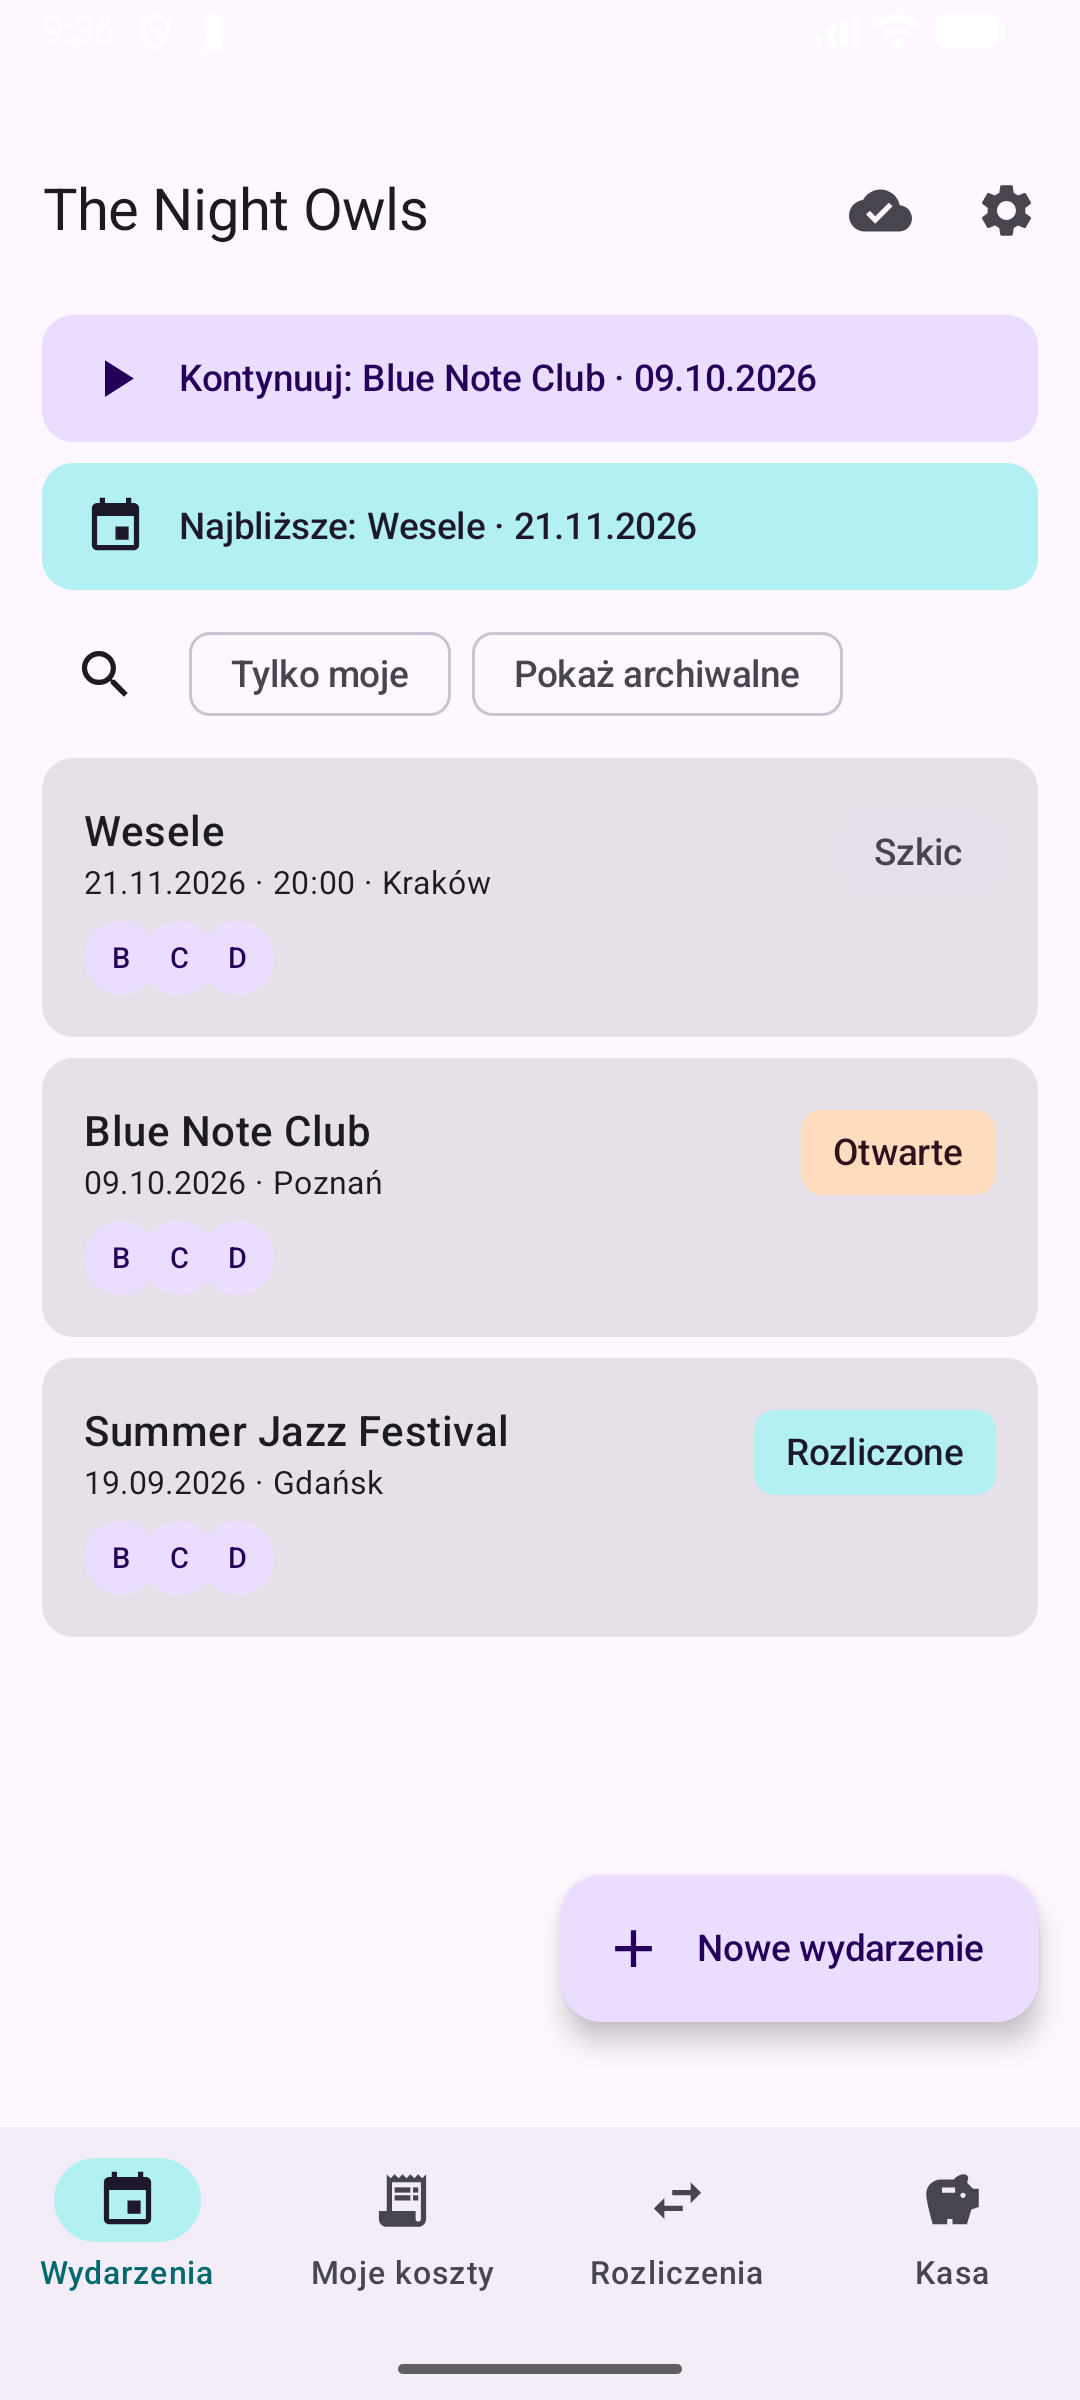
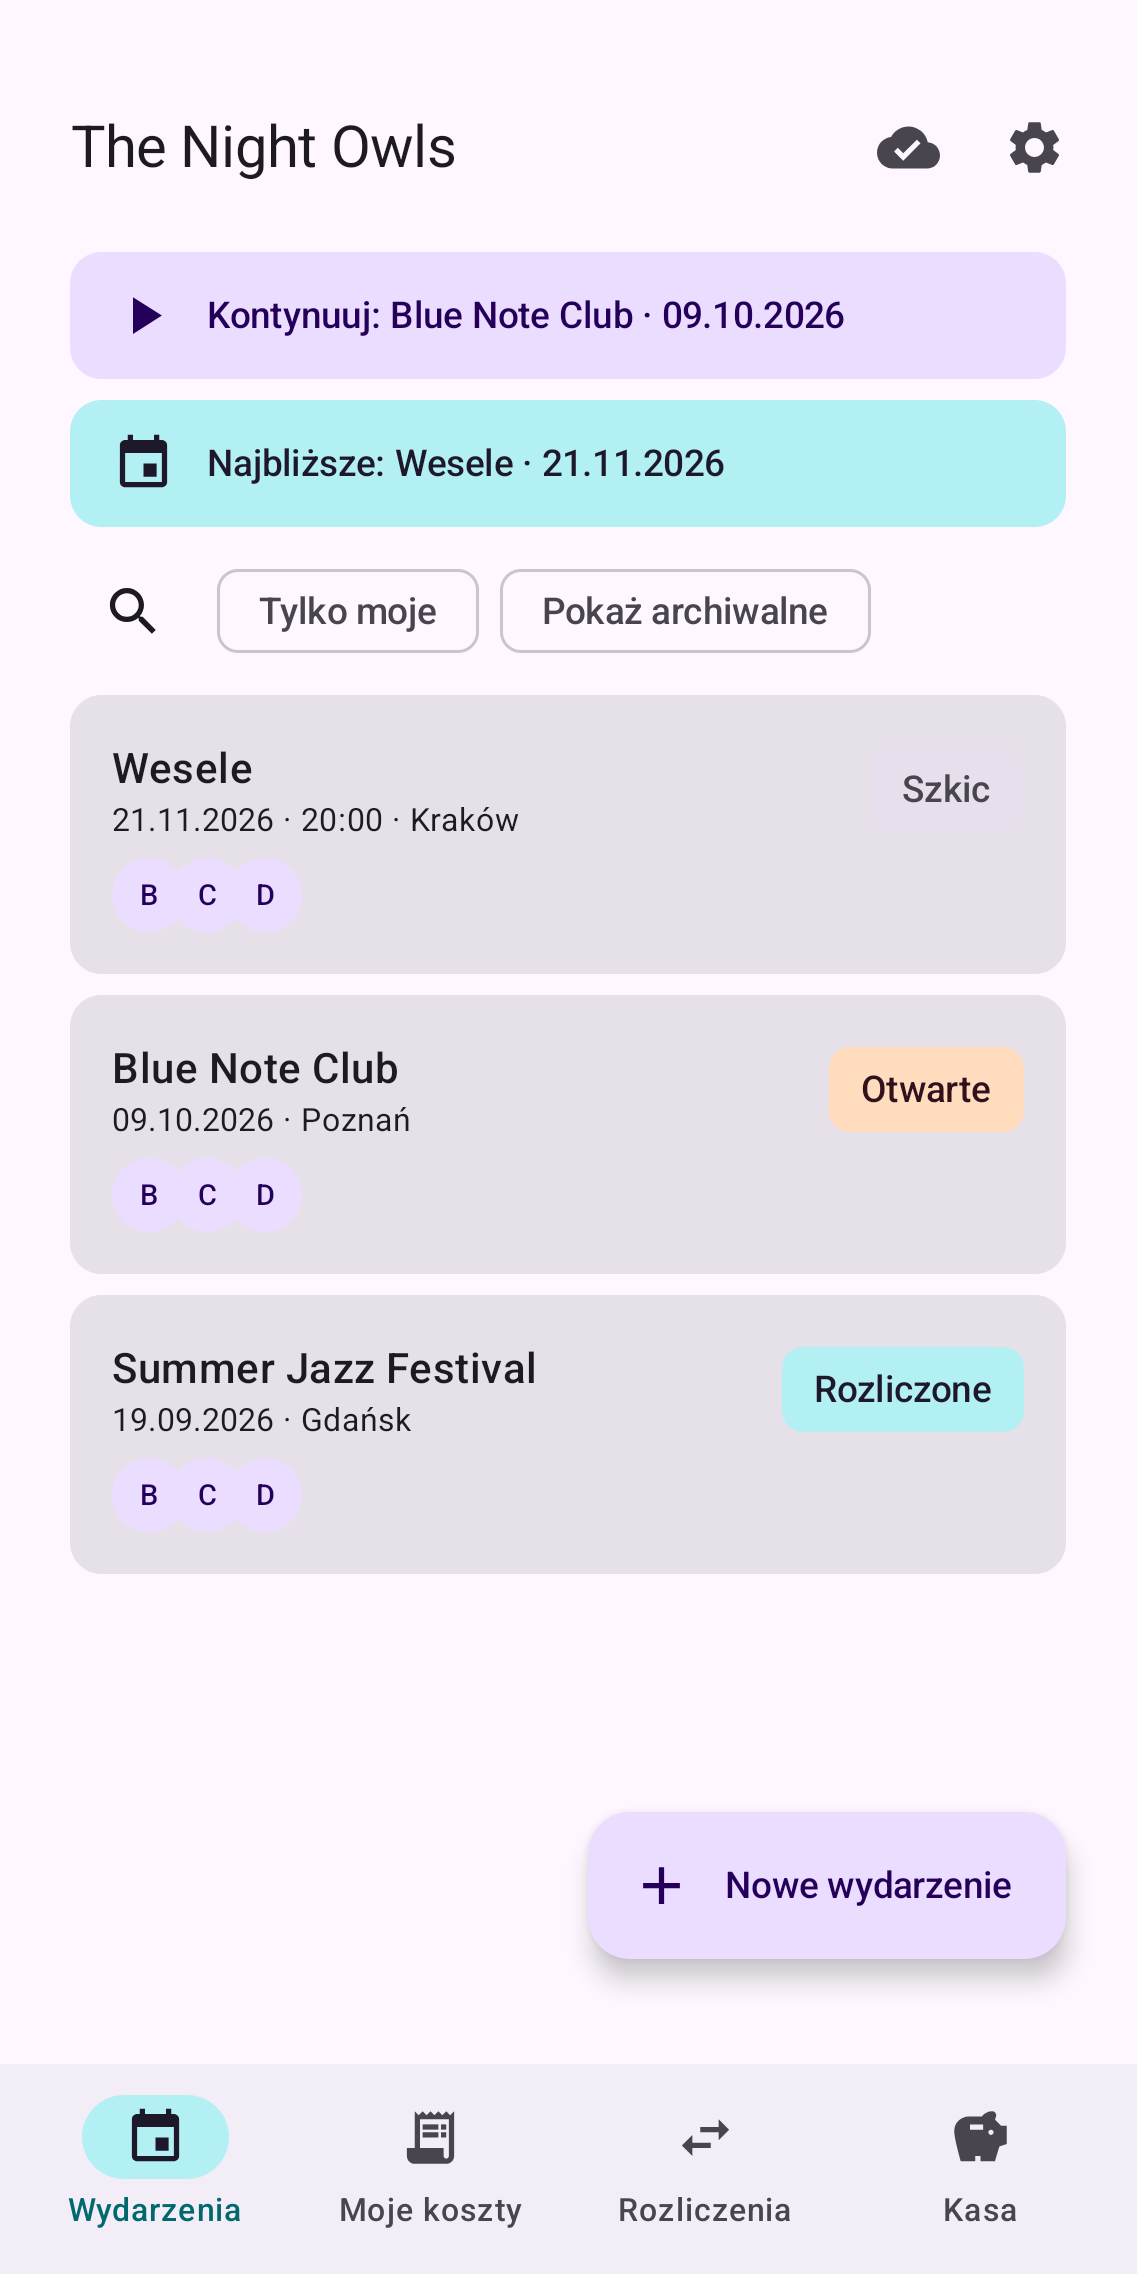
fix: review findings: screenshots at 2:1 without alpha, descriptions one line per paragraph, Data safety with what Google's SDKs collect (and the policy says so), the Play build tidies the website APK's leftover update checks, CI checks the upload key first and can upload drafts, nits

diff --git a/androidApp/src/play/kotlin/com/jacekgajek/kapelusz/android/Flavor.kt b/androidApp/src/play/kotlin/com/jacekgajek/kapelusz/android/Flavor.kt
@@ -1,13 +1,29 @@
 package com.jacekgajek.kapelusz.android
 
+import android.app.NotificationManager
 import android.content.Context
+import androidx.work.WorkManager
+import java.io.File
 
 /** The Google Play build (ITERATION_7 §1.1): Play updates it, so there is nothing to set up. */
 internal object Flavor {
     fun install() {}
 
-    @Suppress("UNUSED_PARAMETER")
-    fun onStart(context: Context) {}
+    /**
+     * A phone that came from the website's APK (an ordinary update) still has what its updater left: the scheduled
+     * checks (whose worker this build doesn't have, so WorkManager would fail them), the notification channel and a
+     * downloaded APK. Gone on the first start; cheap and harmless when there is nothing.
+     */
+    fun onStart(context: Context) {
+        val app = context.applicationContext
+        // The names the website APK's UpdateWorker and Updater use.
+        WorkManager.getInstance(app).run {
+            cancelUniqueWork("update-check")
+            cancelUniqueWork("update-now")
+        }
+        app.getSystemService(NotificationManager::class.java)?.deleteNotificationChannel("updates")
+        File(app.cacheDir, "updates").deleteRecursively()
+    }
 
     fun onStop() {}
 }

diff --git a/composeApp/src/androidMain/kotlin/com/jacekgajek/kapelusz/app/platform/AppSuggestion.android.kt b/composeApp/src/androidMain/kotlin/com/jacekgajek/kapelusz/app/platform/AppSuggestion.android.kt
@@ -48,7 +48,7 @@ actual suspend fun appDownload(): AppDownload? {
     val context = AndroidPlatform.context ?: return null
     // From Google Play, which updates it: the website's APK is not its update (ITERATION_7 §1.1).
     if (Distribution.selfUpdater == null) return null
-    // Debug builds (installDebug) always have version 1; they would see every published release as an update.
+    // Debug builds (installSiteDebug, installPlayDebug) always have version 1; they would see every published release as an update.
     if (context.applicationInfo.flags and ApplicationInfo.FLAG_DEBUGGABLE != 0) return null
     val published = published ?: withContext(Dispatchers.IO) { runCatching { fetchPublished() }.getOrNull() }?.also { published = it } ?: return null
     val dismissed = context.getSharedPreferences(PREFS, Context.MODE_PRIVATE).getLong(DISMISSED_VERSION, 0)

diff --git a/privacy-policy/pl.html b/privacy-policy/pl.html
@@ -183,7 +183,9 @@
     <p>Żadnych reklam, żadnej analityki, żadnego śledzenia między aplikacjami ani stronami internetowymi, żadnej usługi
         raportowania awarii. Aplikacja nie odczytuje lokalizacji Twojego urządzenia, kontaktów ani plików innych niż te,
         które sam(a) wybierzesz lub do niej udostępnisz. Zdjęcia robi Twoja aplikacja aparatu, a dołączane są tylko te,
-        które wybierzesz.</p>
+        które wybierzesz. Mapa i skaner kodów QR od Google na Androidzie (zob. punkt <a href="#recipients">4</a>)
+        wysyłają do Google dane techniczne o własnym działaniu, np. informacje o urządzeniu i wydajności, zgodnie z
+        polityką prywatności Google; my ich nie otrzymujemy.</p>
 
     <h2 id="why">3. W jakim celu je przetwarzamy (podstawa prawna)</h2>
     <ul>

diff --git a/privacy-policy/index.html b/privacy-policy/index.html
@@ -178,7 +178,9 @@
     <h3 id="not-collected">2.5 What we do not collect</h3>
     <p>No advertising, no analytics, no tracking across apps or websites, no crash reporting service. The app does not
         read your device’s location, contacts or files other than those you pick or share to it. Photos are taken by
-        your camera app and only those you choose are attached.</p>
+        your camera app and only those you choose are attached. Google’s map and QR code scanner on Android (see
+        <a href="#recipients">4</a>) send Google technical data about their own use, such as device and performance
+        information, under Google’s privacy policy; we receive none of it.</p>
 
     <h2 id="why">3. Why we process it (legal basis)</h2>
     <ul>

diff --git a/composeApp/src/commonMain/kotlin/com/jacekgajek/kapelusz/app/platform/Updates.kt b/composeApp/src/commonMain/kotlin/com/jacekgajek/kapelusz/app/platform/Updates.kt
@@ -31,7 +31,7 @@ sealed interface UpdateStatus {
     /** The check itself failed (e.g. offline); it is retried later. */
     data object Failed : UpdateStatus
 
-    /** Debug builds (installDebug) never update themselves. */
+    /** Debug builds (installSiteDebug) never update themselves. */
     data object Unavailable : UpdateStatus
 }
 

diff --git a/design/play-store/listing.md b/design/play-store/listing.md
@@ -1,7 +1,8 @@
 # Store listing (ITERATION_7 §1.4)
 
 Paste into Play Console › Grow › Store presence › Main store listing; Polish as a translation (Polski – pl-PL),
-English (en-US) as the default. Limits: title 30, short description 80, full description 4000 characters.
+English (en-US) as the default. Limits: title 30, short description 80, full description 4000 characters. Each paragraph and bullet
+of the full description is one line: Play keeps line breaks.
 
 ## English (en-US)
 
@@ -15,8 +16,7 @@ Settle your band's gig money: collections, costs, band fund, who pays whom.
 
 **Full description**
 
-The hat has gone round, the gig is over, and someone holds the door money while someone else paid for fuel. Pass the
-Hat works out who hands over how much to whom, so the band settles in a minute instead of a spreadsheet evening.
+The hat has gone round, the gig is over, and someone holds the door money while someone else paid for fuel. Pass the Hat works out who hands over how much to whom, so the band settles in a minute instead of a spreadsheet evening.
 
 GIGS AND SHARES
 • Add an event with its date, place on the map and schedule (arrival, sound check, start).
@@ -35,8 +35,7 @@ WHO PAYS WHOM
 
 FOR THE WHOLE BAND
 • Everyone sees the same numbers, synced between phones and the web app; it works offline too.
-• Roles: owner, leaders, members, artists who see only their own money, and read-only viewers for a manager or an
-  accountant.
+• Roles: owner, leaders, members, artists who see only their own money, and read-only viewers for a manager or an accountant.
 • Invite bandmates with a code or a QR code.
 • Photos and PDFs of receipts on costs, received money and events; share them to the app from your gallery.
 • A summary of any period: what you earned, what the band collected, costs by category.
@@ -57,8 +56,7 @@ Rozliczenia koncertów: zbiórki, koszty, kasa zespołowa i kto komu oddaje.
 
 **Pełny opis**
 
-Kapelusz poszedł w obieg, koncert się skończył, ktoś trzyma pieniądze z wejściówek, a ktoś inny zapłacił za paliwo.
-Kapelusz wylicza, kto komu ile oddaje, więc zespół rozlicza się w minutę zamiast w wieczór z arkuszem.
+Kapelusz poszedł w obieg, koncert się skończył, ktoś trzyma pieniądze z wejściówek, a ktoś inny zapłacił za paliwo. Kapelusz wylicza, kto komu ile oddaje, więc zespół rozlicza się w minutę zamiast w wieczór z arkuszem.
 
 KONCERTY I UDZIAŁY
 • Dodaj wydarzenie z datą, miejscem na mapie i harmonogramem (przyjazd, próba dźwięku, początek).
@@ -67,8 +65,7 @@ KONCERTY I UDZIAŁY
 
 PIENIĄDZE: WPŁYWY I WYDATKI
 • Zapisz, kto co zebrał: kapelusz, wejściówki, bilety online, merch, gażę z umowy albo od sponsora.
-• Koszty należą do członka, który zapłacił: paliwo, hotel, sprzęt, jedzenie. Liderzy decydują, z którego koncertu
-  wracają.
+• Koszty należą do członka, który zapłacił: paliwo, hotel, sprzęt, jedzenie. Liderzy decydują, z którego koncertu wracają.
 • Opcjonalna kasa zespołowa, trzymana przez jednego członka, dostaje swoją część z każdego koncertu.
 
 KTO KOMU ODDAJE
@@ -78,23 +75,21 @@ KTO KOMU ODDAJE
 
 DLA CAŁEGO ZESPOŁU
 • Wszyscy widzą te same liczby, zsynchronizowane między telefonami a aplikacją w przeglądarce; działa też offline.
-• Role: właściciel, liderzy, członkowie, artyści widzący tylko swoje pieniądze i obserwatorzy bez prawa zmian, np. dla
-  menedżera albo księgowej.
+• Role: właściciel, liderzy, członkowie, artyści widzący tylko swoje pieniądze i obserwatorzy bez prawa zmian, np. dla menedżera albo księgowości.
 • Zaproś członków zespołu kodem albo kodem QR.
-• Zdjęcia i pliki PDF paragonów przy kosztach, otrzymanych pieniądzach i wydarzeniach; udostępnij je do aplikacji
-  prosto z galerii.
+• Zdjęcia i pliki PDF paragonów przy kosztach, otrzymanych pieniądzach i wydarzeniach; udostępnij je aplikacji prosto z galerii.
 • Podsumowanie dowolnego okresu: Twoje zarobki, wpływy zespołu, koszty według kategorii.
 • Twoje koncerty w Kalendarzu Google albo innej aplikacji kalendarza, przez subskrypcję.
 • Każda zmiana w historii, z możliwością cofnięcia.
 
-Bez reklam i śledzenia. Po polsku i po angielsku. Także w przeglądarce na kapelusz.jacekgajek.com, na iPhone'a
-i komputer.
+Bez reklam i śledzenia. Po polsku i po angielsku. Także w przeglądarce na kapelusz.jacekgajek.com, na iPhone'a i komputer.
 
 ## Graphics
 
 - App icon (512 × 512): `design/icon/icon-512.png`.
 - Feature graphic (1024 × 500): `design/play-store/feature-graphic-en.png`, `feature-graphic-pl.png` for Polish.
-- Phone screenshots (1080 × 2400): `design/play-store/screenshots/en/` and `design/play-store/screenshots/pl/`.
+- Phone screenshots (1137 × 2274, RGB PNG; Play allows at most 2:1): `design/play-store/screenshots/en/` and
+  `design/play-store/screenshots/pl/`.
 
 ## Tags and category
 

diff --git a/design/play-store/console-answers.md b/design/play-store/console-answers.md
@@ -64,8 +64,8 @@ No.
 **Shared:** nothing. Google (sign-in, places, maps, QR scanner) and Amazon Web Services (hosting) act as service
 providers, which Play doesn't count as sharing.
 
-**Collected** (all: not shared; processed for **App functionality**, and account items also for **Account
-management**; none for analytics, ads or personalisation):
+**Collected by the app itself** (all: not shared; processed for **App functionality**, and account items also for
+**Account management**; none for analytics, ads or personalisation):
 
 | Play's data type | What it is in Kapelusz | Required or optional | Ephemeral |
 |---|---|---|---|
@@ -79,5 +79,16 @@ management**; none for analytics, ads or personalisation):
 | App activity › Other user-generated content | events (name, place, schedule, notes), cost descriptions, band name | Required | No |
 | Device or other IDs | a random identifier per band and installation, which orders a device's changes | Required | No |
 
-**Not collected:** location (the device's), contacts, messages, audio, health, web browsing, app interactions,
-crash logs, diagnostics, advertising IDs.
+**Collected by Google's SDKs in the app** (Play counts what bundled SDKs collect; check each one's own Data safety
+guidance, which Google publishes, and add exactly what it lists):
+
+- **Google Play services code scanner** (ML Kit, Join band › Scan QR code): Google's ML Kit disclosure lists device or
+  app information, per-installation identifiers and performance metrics, for diagnostics and usage analytics. So also:
+  **App info and performance › Diagnostics** and **Device or other IDs**, purpose **Analytics**, not shared.
+- **Maps SDK for Android** (picking a place on a map): see Google's "Maps SDK for Android" Play Data safety page; it
+  may add diagnostics or crash logs.
+- **Credential Manager / Sign in with Google**: see its Data safety guidance; usually nothing beyond the account data
+  above.
+
+**Not collected:** location (the device's), contacts, messages, audio, health, web browsing, advertising IDs; by the
+app itself also no crash logs, diagnostics or analytics (only what the SDKs above list).

diff --git a/ITERATION_7.md b/ITERATION_7.md
@@ -34,6 +34,9 @@ Pass the Hat goes to Google Play while the website's APK keeps working for every
   Without the secret, the bundle is built and the upload skipped. The very first upload is by hand (the API can't create
   the app's first release).
 - **Production** is promoted by hand in the Console.
+- **Raising the minimum app version** (`Api.MIN_APP_VERSION`, ITERATION_2 §2) waits until the build it requires is live
+  on Play too: Play builds come later (review, promotion by hand), and until then Play users would be told to update
+  to a build Play doesn't have yet.
 - **Closed test first** (Q4): a personal account created after Nov 2023 must run a closed test with at least 12 testers
   opted in for 14 days in a row before applying for production. **15–20 testers** (Q10): the bands' members with Android
   and friends, through a **Google Group**, using the app as usual (Google wants real use). They install from Play over

diff --git a/privacy-policy/PRIVACY_POLICY.md b/privacy-policy/PRIVACY_POLICY.md
@@ -61,7 +61,9 @@ events, their own money and other members' names.
 
 No advertising, no analytics, no tracking across apps or websites, no crash reporting service. The app does not read
 your device's location, contacts or files other than those you pick or share to it. Photos are taken by your camera app
-and only those you choose are attached.
+and only those you choose are attached. Google's map and QR code scanner on Android (see 4) send Google technical
+data about their own use, such as device and performance information, under Google's privacy policy; we receive none
+of it.
 
 ## 3. Why we process it (legal basis)
 
